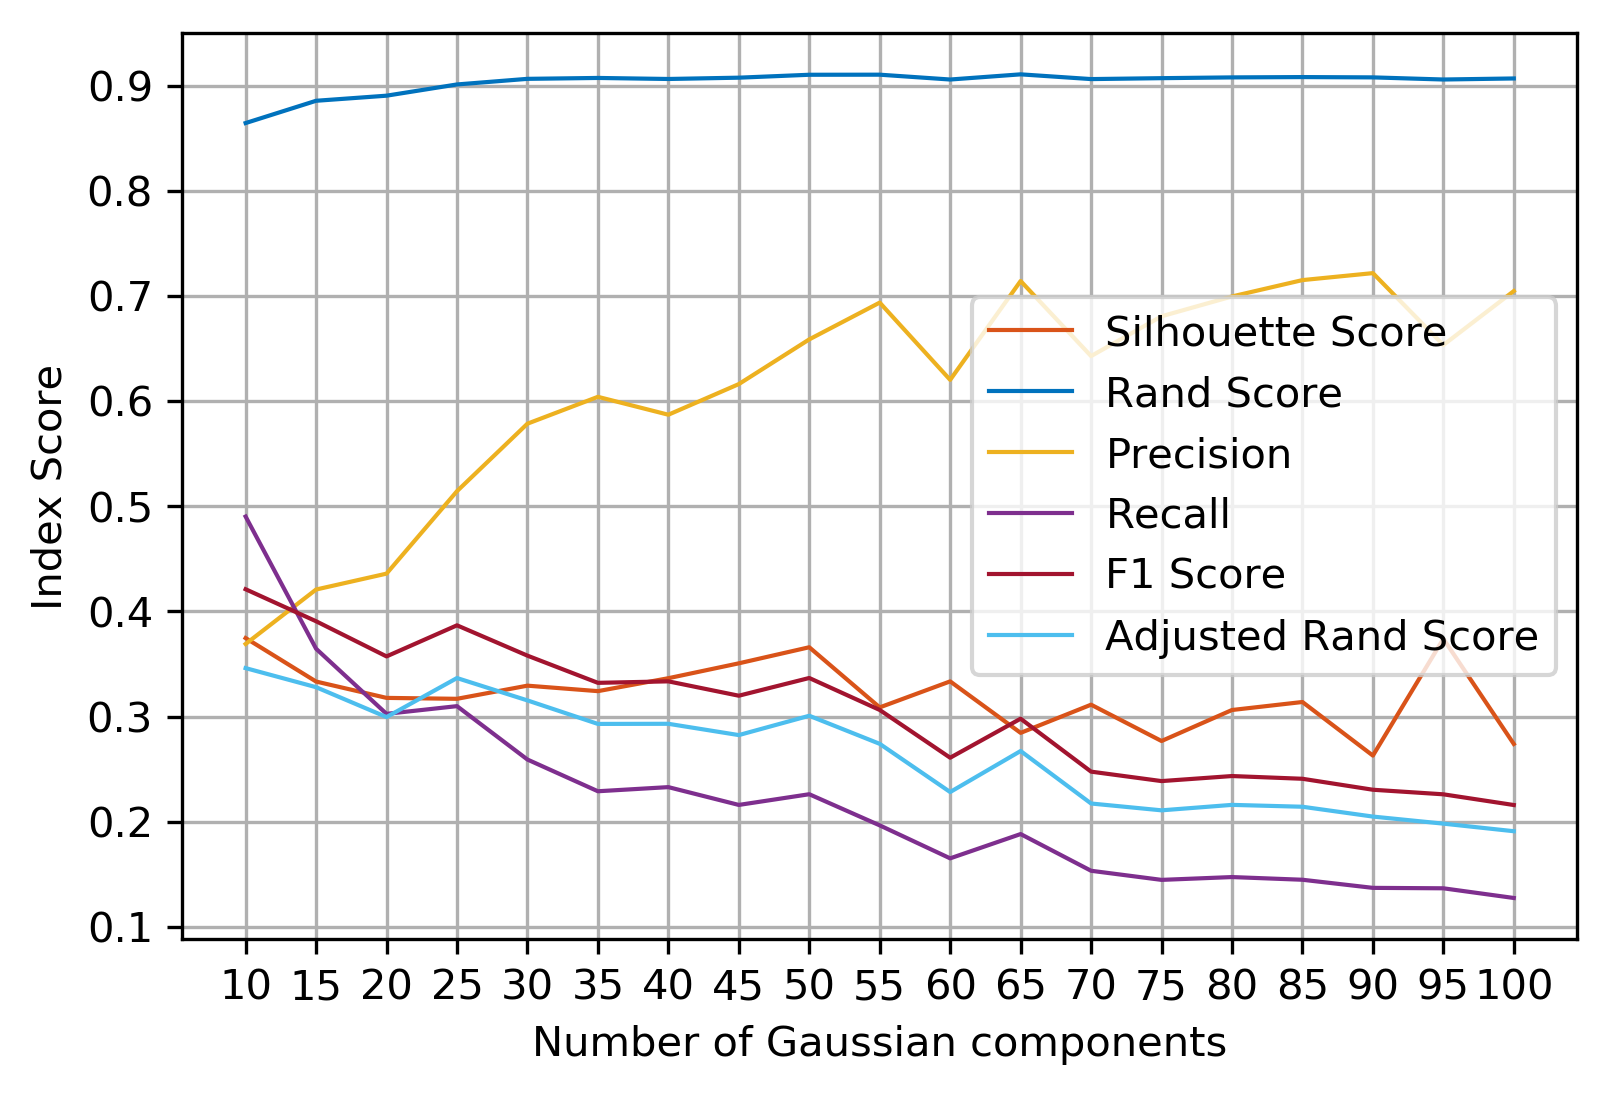
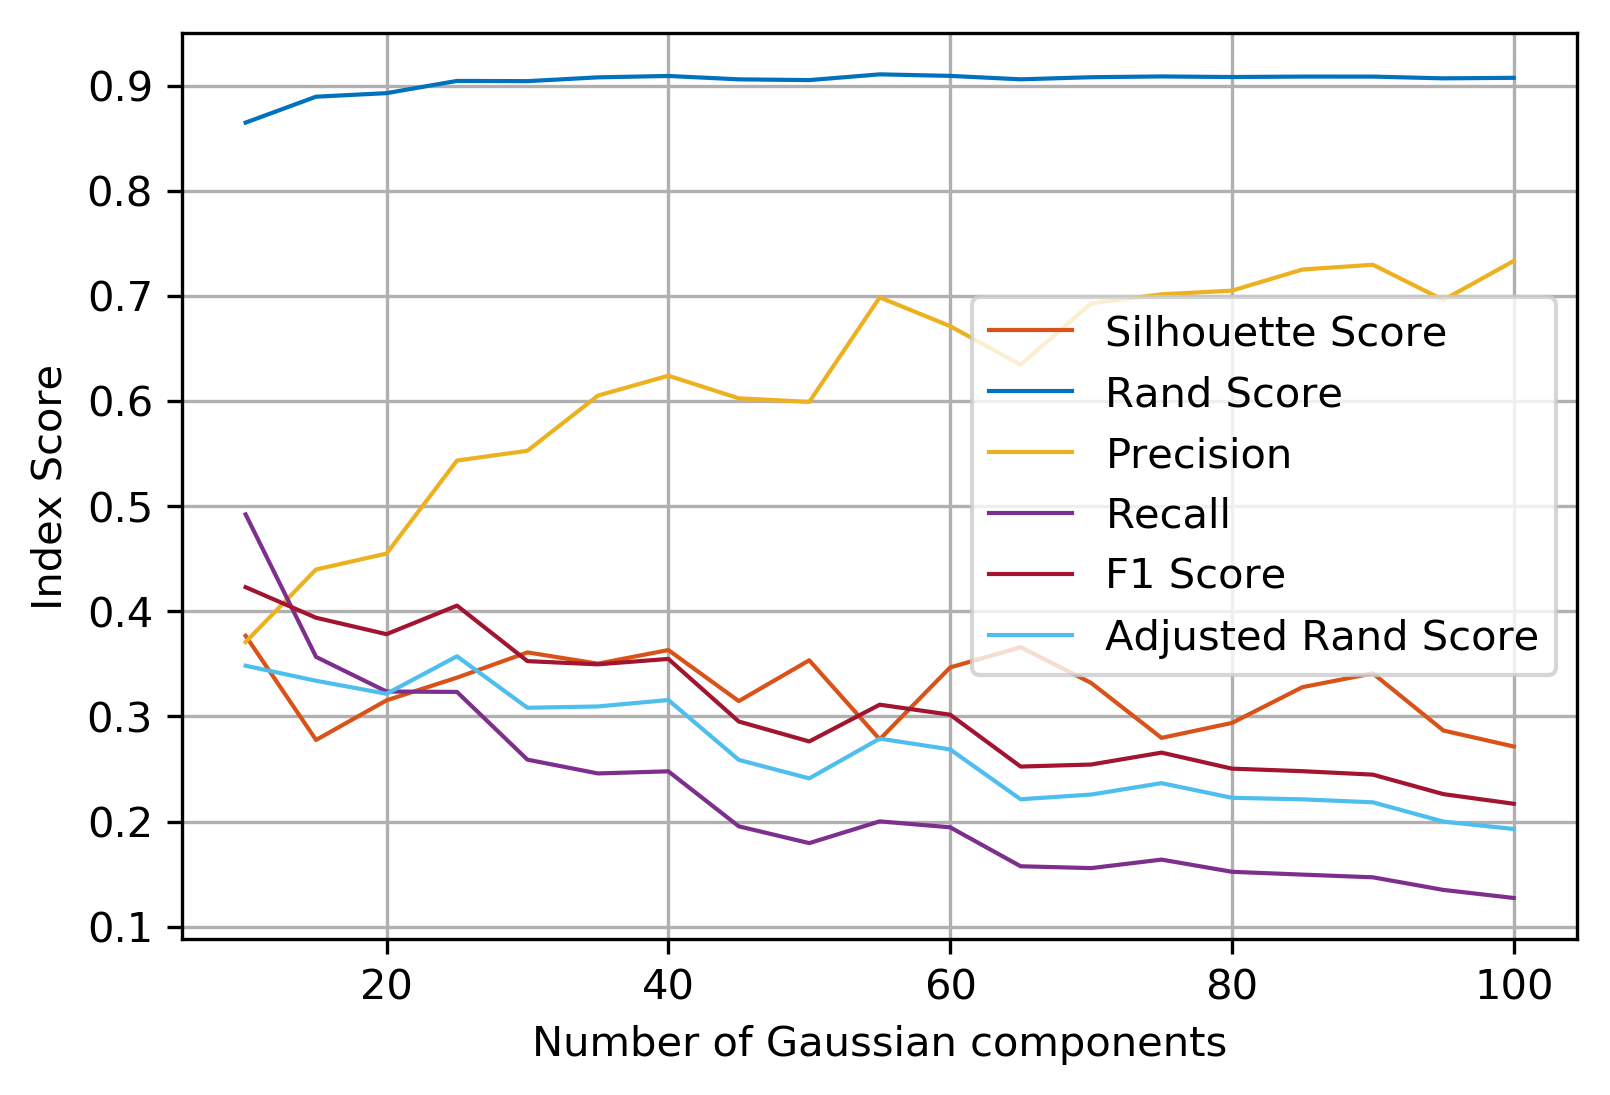
add a funtion to create each image with a parameter given

diff --git a/TP2/tp2.py b/TP2/tp2.py
@@ -44,29 +44,41 @@ def all_points_to_3d(latitudes, longitudes):
 
 
 # devolve array com clusterings para cada num de clusters
-def k_means_cluster(points):
+def k_means_cluster(points, k_clusters_range=range(10, 105, 5)):
     clustering_labels = []
-    labels = []
+    ks = []
     print("started clustering with k-means")
-    for ix in range(10, 105, 5):  # ha 90 falhas
-        clustering = cl.KMeans(n_clusters=ix).fit(points)
+    for k in k_clusters_range:  # ha 90 falhas
+        clustering = cl.KMeans(n_clusters=k).fit(points)
         clustering_labels.append(clustering.labels_)
-        print(ix, "clusters, ", clustering.n_iter_, "iterations this time")
-        labels.append(ix)
-    return labels, clustering_labels
+        print(k, "clusters, ", clustering.n_iter_, "iterations this time")
+        ks.append(k)
+    return ks, clustering_labels
 
 
 # devolve array com clusterings para cada num de componentes gaussianos
-def gauss_mm(points):
+def gauss_mm(points, c_components_range=range(10, 105, 5)):
     clustering_labels = []
-    labels = []
+    cs = []
     print("started clustering with Gaussian Mixture Models")
-    for ix in range(10, 105, 5):  # ha 90 falhas
-        clustering = mx.GaussianMixture(n_components=ix).fit(points)
+    for c in c_components_range:  # ha 90 falhas
+        clustering = mx.GaussianMixture(n_components=c).fit(points)
         clustering_labels.append(clustering.predict(points))
-        print(ix, "clusters, ", clustering.n_iter_, "iterations this time")
-        labels.append(ix)
-    return labels, clustering_labels
+        print(c, "clusters, ", clustering.n_iter_, "iterations this time")
+        cs.append(c)
+    return cs, clustering_labels
+
+
+def dbscan_labels(points, epsilon_range=range(EPSILON - 50, EPSILON + 100, 5)):
+    clustering_labels = []
+    print("started clustering with DBSCAN")
+    es = []
+    for e in epsilon_range:  # ha 90 falhas
+        clustering = cl.DBSCAN(e).fit(points)
+        clustering_labels.append(clustering.labels_)
+        print("Neighbourhood radius: ", e)
+        es.append(e)
+    return es, clustering_labels
 
 
 # devolve o epsilon ideal para o dbscan
@@ -77,10 +89,10 @@ def plot_for_dbscan(points, faults):
     for ix in range(len(points)):
         curr = knn.kneighbors([points[ix]], n_neighbors=4)[0]
         dists.append(curr.item(3))  # o kneighbors devolve o array ordenado, a dist mais alta e a ultima
-    dists.sort();
+    dists.sort()
     dists.reverse()  # dists fica ordenado da distancia maior para a mais pequena
-    plt.plot(dists, 'k,');
-    plt.show();
+    plt.plot(dists, 'k,')
+    plt.show()
     num_f = num_noise(faults)
     print("\nEpsilon ideal:", dists[num_f], "\nNum. de sismos sem falha:", num_f)
     return
@@ -90,48 +102,37 @@ def plot_for_dbscan(points, faults):
 def num_noise(faults):
     count = 0
     for ix in range(1, len(faults)):
-        if (faults[ix] == -1):
+        if faults[ix] == -1:
             count = count + 1
     return count
 
 
 # devolve array com clusterings para cada num de componentes gaussianos
-def dbscan_labels(points):
-    clustering_labels = []
-    print("started clustering with DBSCAN")
-    labels = []
-    for ix in range(EPSILON - 50, EPSILON + 100, 5):  # ha 90 falhas
-        clustering = cl.DBSCAN(ix).fit(points)
-        clustering_labels.append(clustering.labels_)
-        print("Neighbourhood radius: ",ix)
-        labels.append(ix)
-    return labels, clustering_labels
-
 
 def plot_kmeans(points, faults):
-    labels, kmeans = k_means_cluster(points)
+    ks, kmeans = k_means_cluster(points)
     print("Computing K-means performance")
     silhouette, precision, recall, rand, f1, adj_rand = compute_silhouette(kmeans, faults, points)
     print("Plotting K-means performance")
-    plot_performance(labels, "Number of clusters", "Index Score", "./Kmeans.png", 
+    plot_performance(ks, "Number of clusters", "Index Score", "./Kmeans.png",
                      silhouette, precision, recall, rand, f1, adj_rand)
 
 
 def plot_gauss(points, faults):
-    labels, gauss = gauss_mm(points)
+    cs, gauss = gauss_mm(points)
     print("Computing Gaussian components performance")
     silhouette, precision, recall, rand, f1, adj_rand = compute_silhouette(gauss, faults, points)
     print("Plotting Gaussian components performance")
-    plot_performance(labels, "Number of Gaussian components", "Index Score", "./Gauss.png", 
+    plot_performance(cs, "Number of Gaussian components", "Index Score", "./Gauss.png",
                      silhouette, precision, recall, rand, f1, adj_rand)
 
 
 def plot_dbscan(points, faults):
-    labels, dbscan = dbscan_labels(points)
+    epsilons, dbscan = dbscan_labels(points)
     print("Computing DBSCAN performance")
     silhouette, precision, recall, rand, f1, adj_rand = compute_silhouette(dbscan, faults, points)
     print("Plotting DBSCAN performance")
-    plot_performance(labels, "Neighbourhood Distance", "Index Score", "./DBSCAN.png", 
+    plot_performance(epsilons, "Neighbourhood Distance", "Index Score", "./DBSCAN.png",
                      silhouette, precision, recall, rand, f1, adj_rand)
 
 
@@ -143,11 +144,36 @@ def show_plots():
     plot_dbscan(points, faults)
     plot_for_dbscan(points, faults)
 
-show_plots()
 
-#faults, latitudes, longitudes = get_data("tp2_data.csv")
-#points = all_points_to_3d(latitudes, longitudes)
-#plot_for_dbscan(points, faults)
+def plot_dbscan_classes(epsilon, points, lon, lat):
+    epsilons, dbscan = dbscan_labels(points, range(epsilon, epsilon+1))
+    print(dbscan)
+    plot_classes(dbscan[0], lon, lat)
+
+
+def plot_kmeans_classes(k_clusters, points, lon, lat):
+    ks, kmeans = k_means_cluster(points, range(k_clusters, k_clusters+1))
+    plot_classes(kmeans, lon, lat)
+
+
+def plot_gauss_classes(c_components, points, lon, lat):
+    cs, gauss = gauss_mm(points, range(c_components,c_components+1))
+    plot_classes(gauss, lon, lat)
+
+
+def plot_all_classes(epsilon, c_components, k_clusters):
+    faults, latitudes, longitudes = get_data("tp2_data.csv")
+    points = all_points_to_3d(latitudes, longitudes)
+    plot_dbscan_classes(epsilon, points, longitudes, latitudes)
+    plot_kmeans_classes(k_clusters, points, longitudes, latitudes)
+    plot_gauss_classes(c_components, points, longitudes, latitudes)
+
+
+#show_plots()
+
+# faults, latitudes, longitudes = get_data("tp2_data.csv")
+# points = all_points_to_3d(latitudes, longitudes)
+# plot_for_dbscan(points, faults)
 
 # plot_classes(kmeans[0], longitudes, latitudes)
 # print("gaussian[0]: ",gaussian[0])

diff --git a/TP2/myaux.py b/TP2/myaux.py
@@ -46,15 +46,12 @@ def compute_rand_indexes(labels, faults):
 
 
 def plot_performance(range, x_label, y_label, filename, silhouette, precision, recall, rand, f1, adj_rand):
-    n_x_values = len(range)
-    x_values_range = np.arange(n_x_values)
-    plt.xticks(x_values_range, range)
-    plt.plot(x_values_range, silhouette, color=[0.8500, 0.3250, 0.0980], linestyle='-', linewidth=1, label="Silhouette Score")
-    plt.plot(x_values_range, rand, color=[0, 0.4470, 0.7410], linestyle='-', linewidth=1, label="Rand Score")
-    plt.plot(x_values_range, precision, color=[0.9290, 0.6940, 0.1250], linestyle='-', linewidth=1, label="Precision")
-    plt.plot(x_values_range, recall, color=[0.4940, 0.1840, 0.5560], linestyle='-', linewidth=1, label="Recall")
-    plt.plot(x_values_range, f1, color=[0.6350, 0.0780, 0.1840], linestyle='-', linewidth=1, label="F1 Score")
-    plt.plot(x_values_range, adj_rand, color=[0.3010, 0.7450, 0.9330], linestyle='-', linewidth=1, label="Adjusted Rand Score")
+    plt.plot(range, silhouette, color=[0.8500, 0.3250, 0.0980], linestyle='-', linewidth=1, label="Silhouette Score")
+    plt.plot(range, rand, color=[0, 0.4470, 0.7410], linestyle='-', linewidth=1, label="Rand Score")
+    plt.plot(range, precision, color=[0.9290, 0.6940, 0.1250], linestyle='-', linewidth=1, label="Precision")
+    plt.plot(range, recall, color=[0.4940, 0.1840, 0.5560], linestyle='-', linewidth=1, label="Recall")
+    plt.plot(range, f1, color=[0.6350, 0.0780, 0.1840], linestyle='-', linewidth=1, label="F1 Score")
+    plt.plot(range, adj_rand, color=[0.3010, 0.7450, 0.9330], linestyle='-', linewidth=1, label="Adjusted Rand Score")
     plt.legend()
     plt.grid()
     plt.xlabel(x_label)
